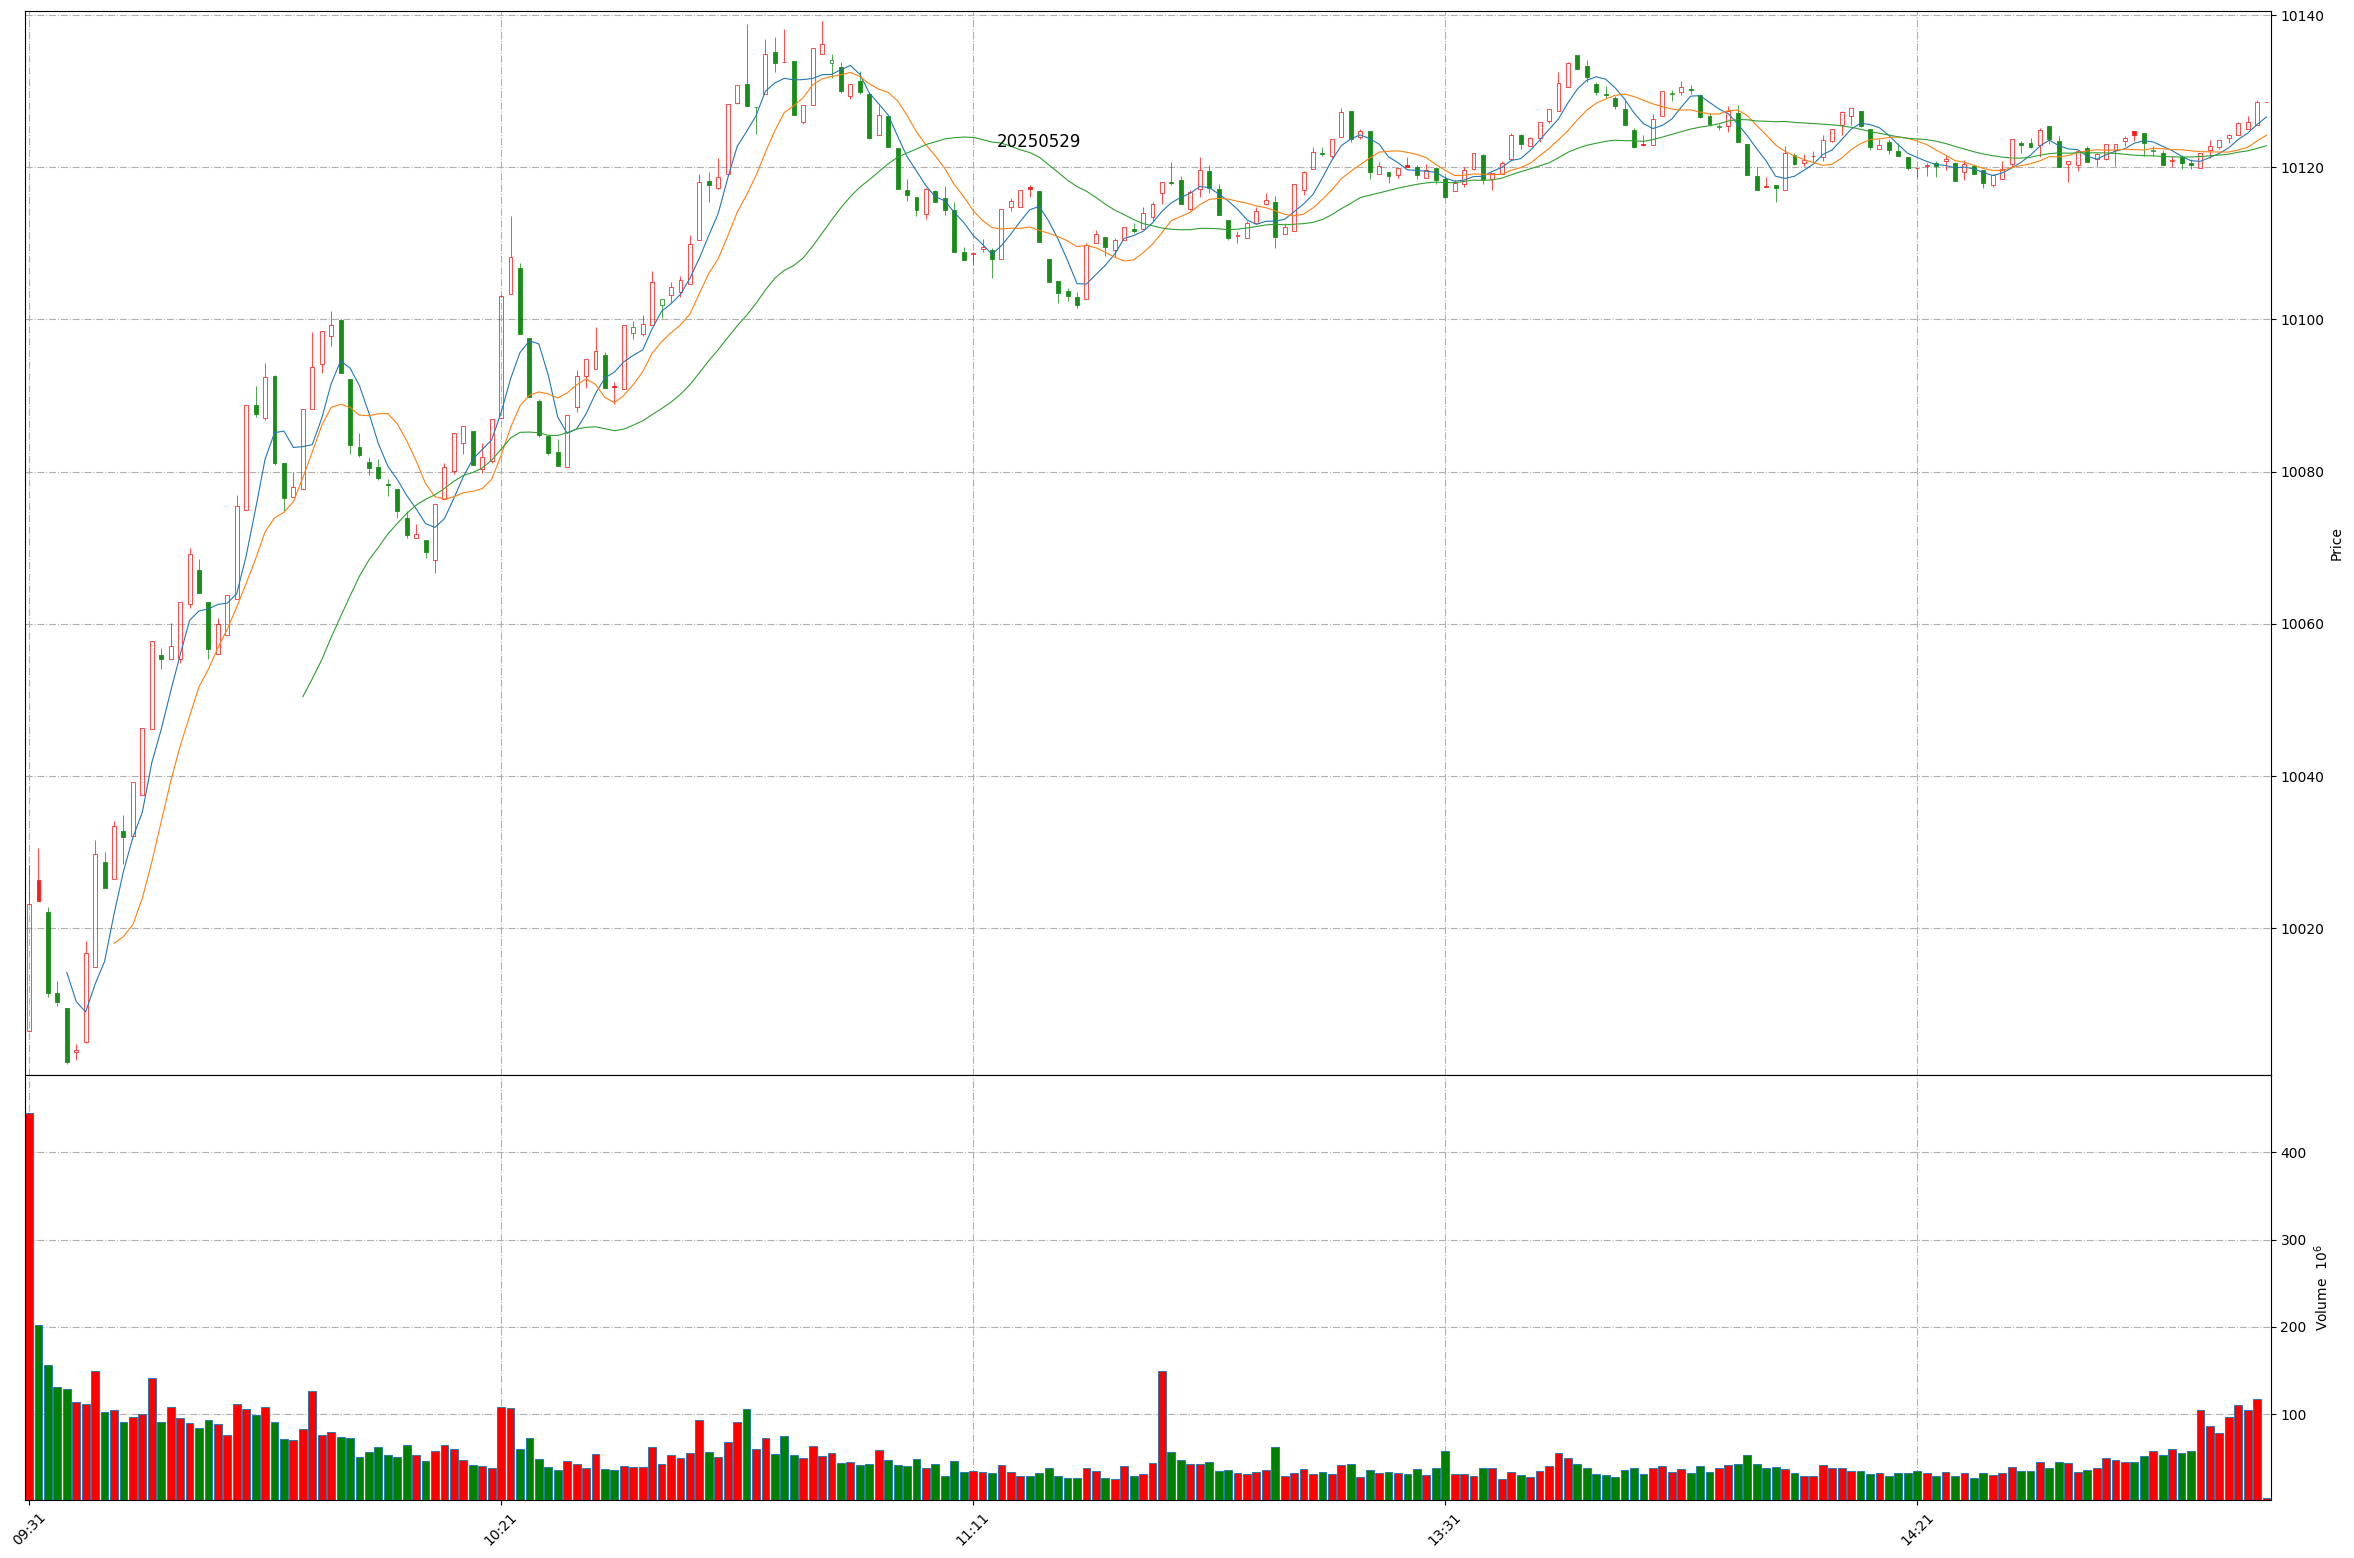
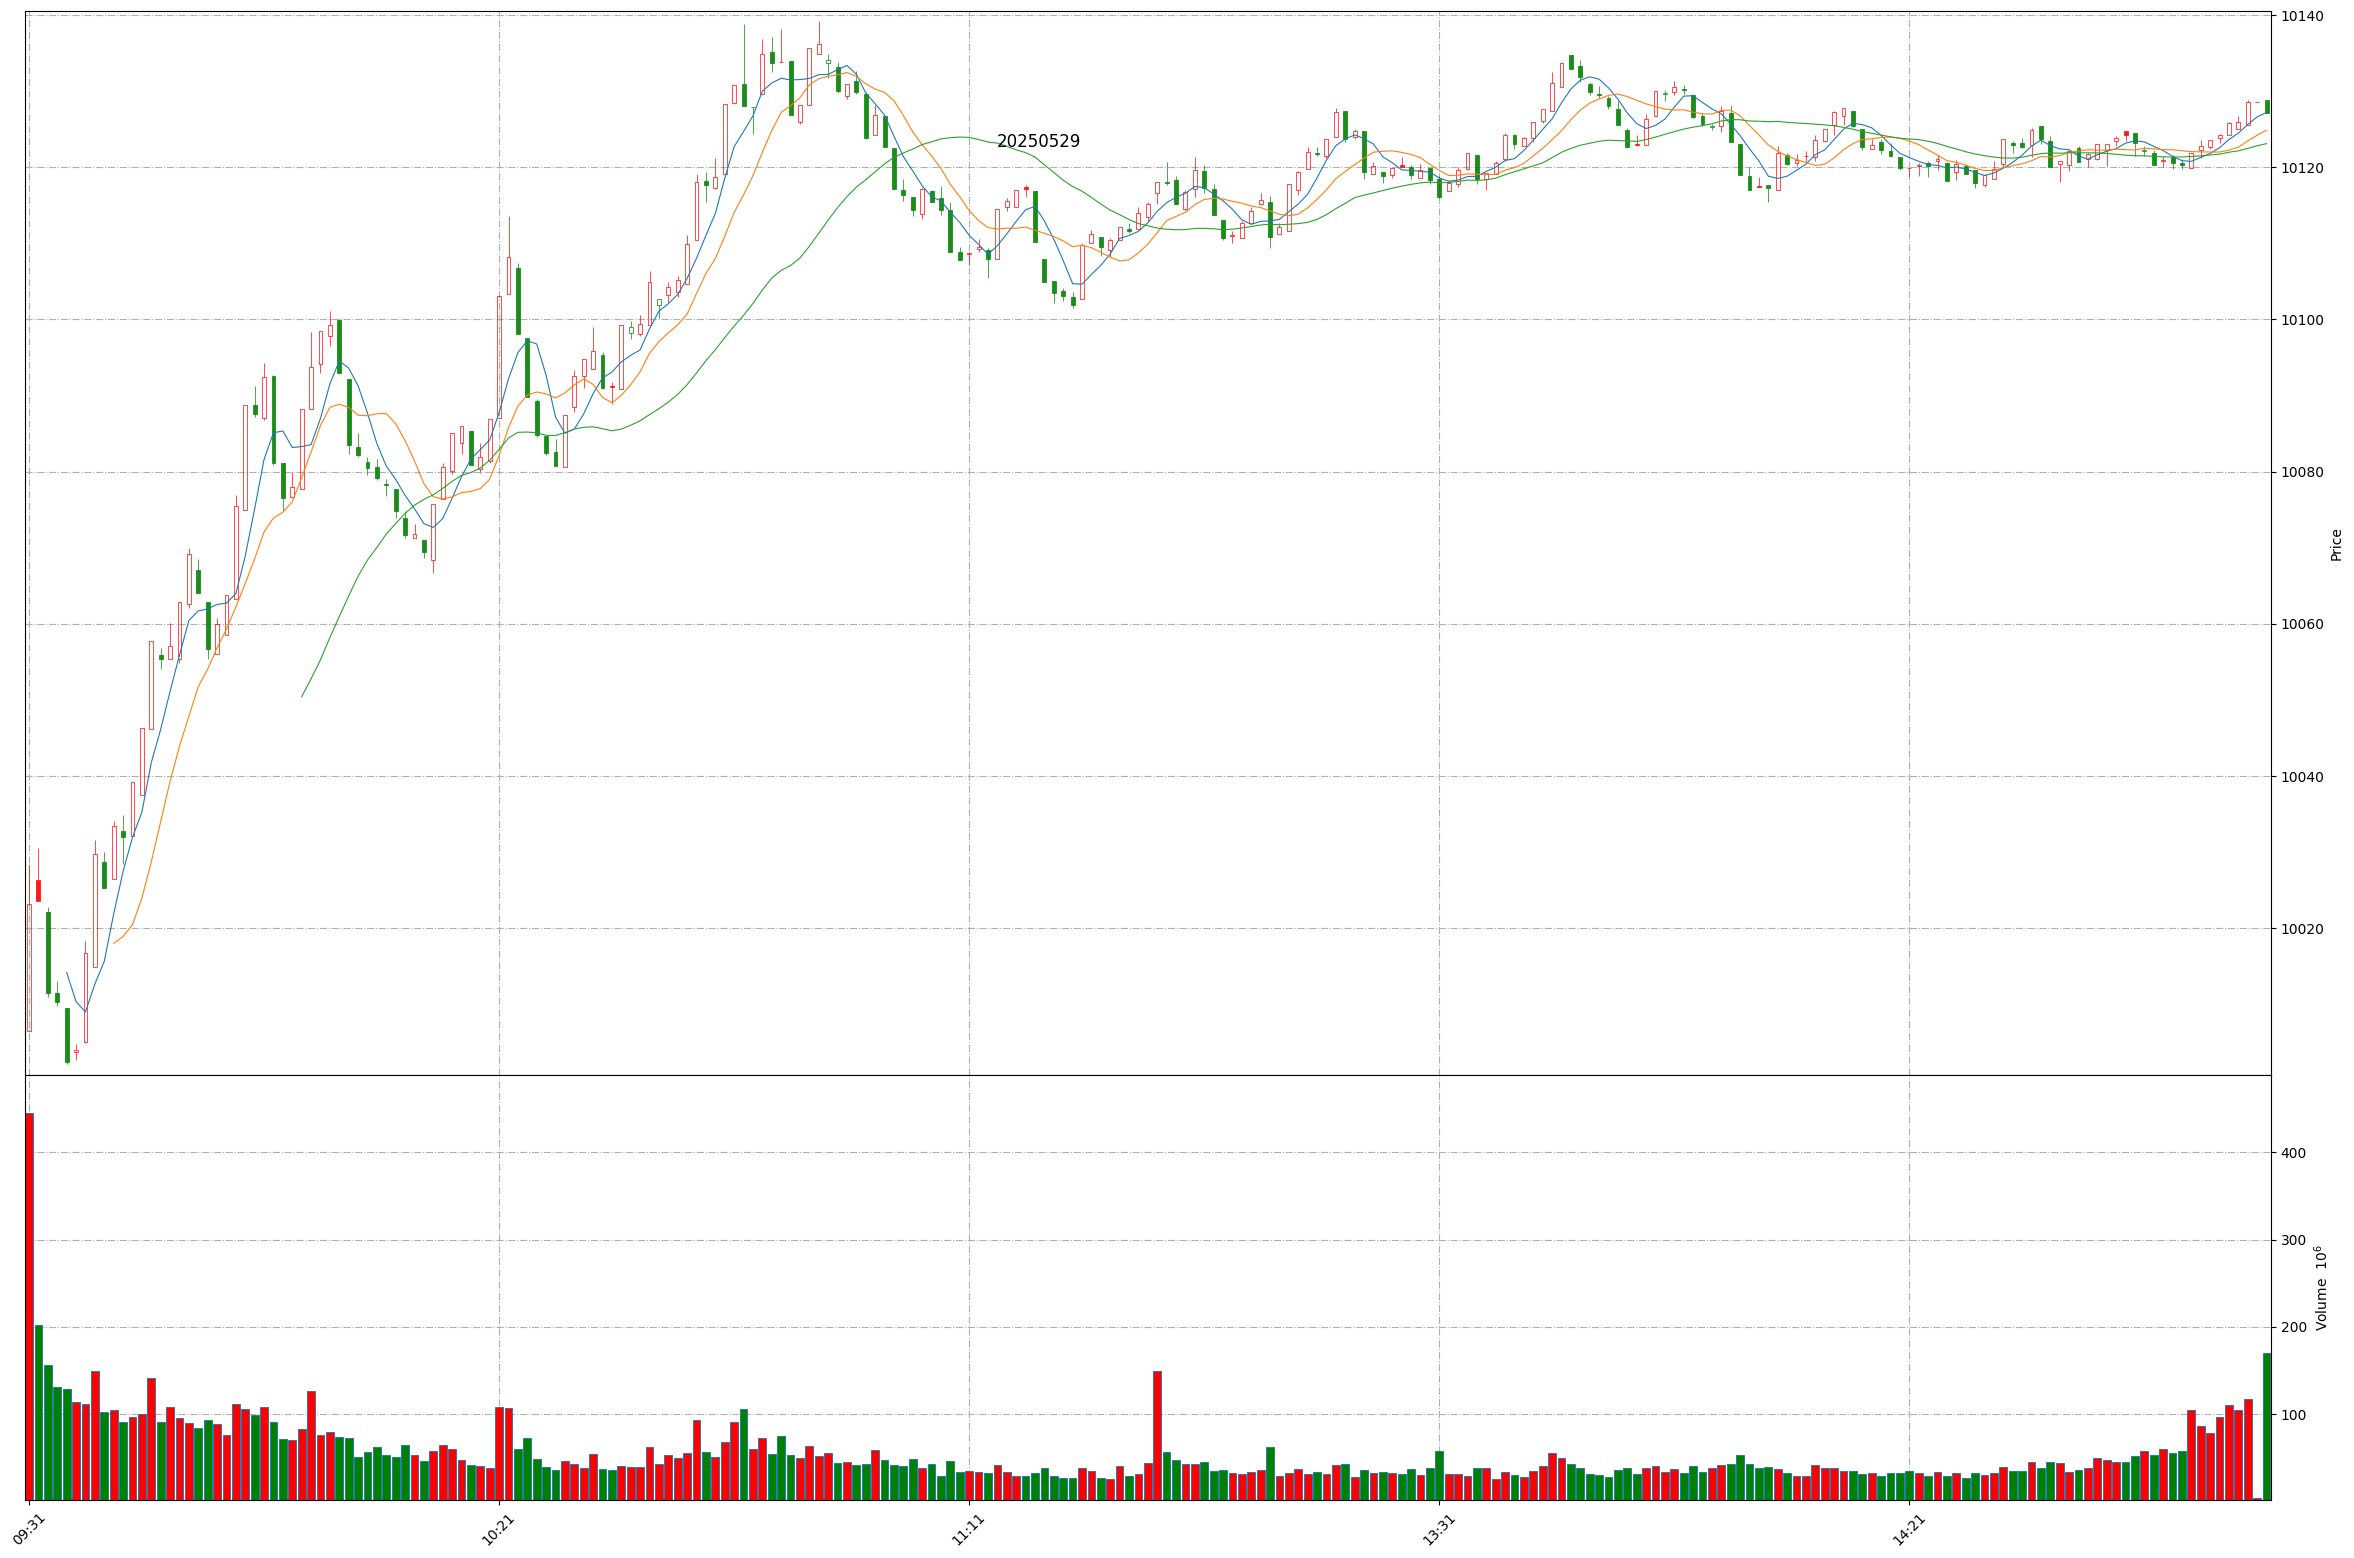
Github action update at 2025-05-29 15:14:21.

diff --git a/README.md b/README.md
@@ -1,11 +1,11 @@
 
 # Daily-A-share-market-quotes 每日 A 股指数（5min 更新）- 20250529
 
-### 上证指数 20250529 14:57
+### 上证指数 20250529 15:14
 ![](./fig/2025/5/20250529-sh000001.png)
 
-### 深证成指 20250529 14:57
+### 深证成指 20250529 15:14
 ![](./fig/2025/5/20250529-sz399001.png)
 
-### 北证50 20250529 14:57
+### 北证50 20250529 15:14
 ![](./fig/2025/5/20250529-bj899050.png)
